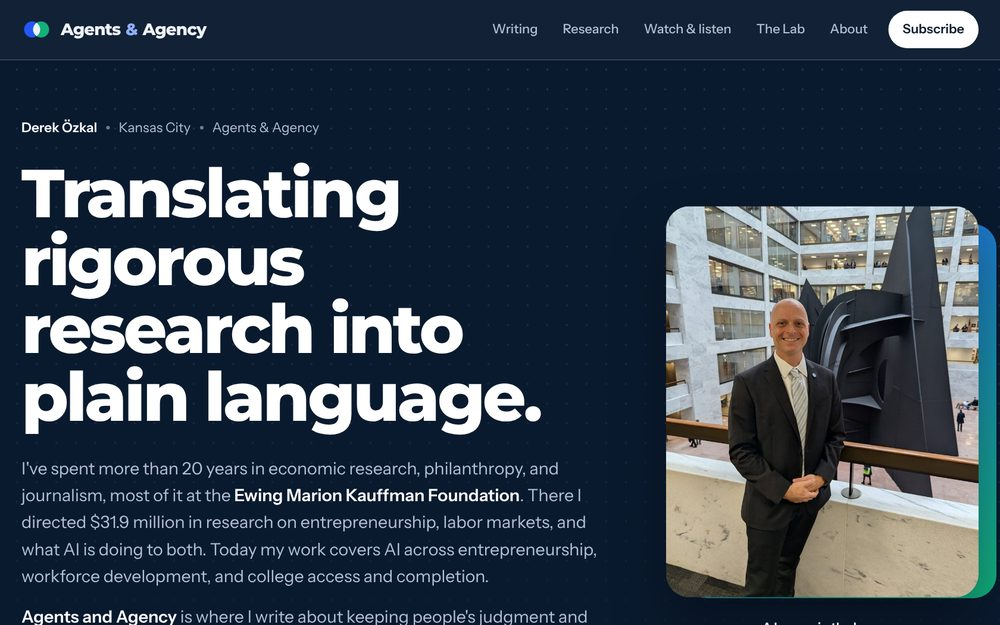
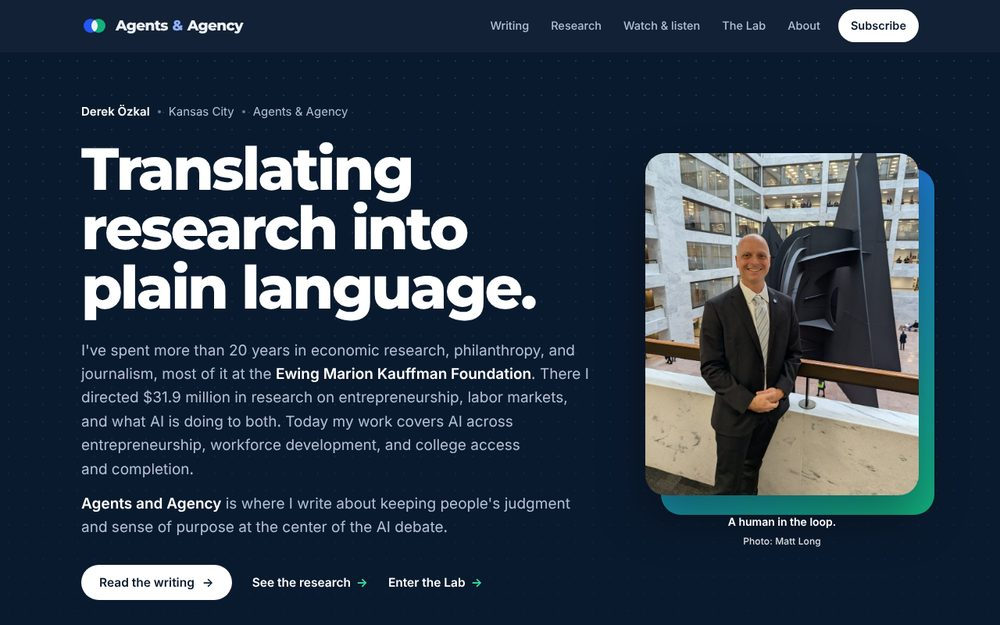
Add the Playground page, tidy the Lab, drop 'rigorous' and the Facebook quote, add missing canonicals
Claude-Session: https://claude.ai/code/session_01JfU5BFowZfvjhLvXnqrTUj

diff --git a/lab.html b/lab.html
@@ -4,13 +4,13 @@
 <meta charset="UTF-8">
 <meta name="viewport" content="width=device-width, initial-scale=1.0, viewport-fit=cover">
 <title>The Lab · Agents &amp; Agency · Derek Özkal</title>
-<meta name="description" content="Working prototypes by Derek Özkal: interactive essays, an AI diffusion atlas, a list of jobs that didn't exist in 2022, this website, four browser games, and some baking.">
+<meta name="description" content="Working prototypes by Derek Özkal: interactive essays, an AI diffusion atlas, a list of jobs that didn't exist in 2022, this website, and some baking, plus a link to the Playground.">
 <meta name="theme-color" content="#0A1A2E">
 <link rel="canonical" href="https://agentsandagency.com/lab.html">
 <meta property="og:type" content="website">
 <meta property="og:site_name" content="Agents &amp; Agency">
 <meta property="og:title" content="The Lab · Agents &amp; Agency · Derek Özkal">
-<meta property="og:description" content="Working prototypes by Derek Özkal: interactive essays, an AI diffusion atlas, a list of jobs that didn't exist in 2022, this website, four browser games, and some baking.">
+<meta property="og:description" content="Working prototypes by Derek Özkal: interactive essays, an AI diffusion atlas, a list of jobs that didn't exist in 2022, this website, and some baking, plus a link to the Playground.">
 <meta property="og:url" content="https://agentsandagency.com/lab.html">
 <meta property="og:image" content="https://agentsandagency.com/assets/og.png">
 <meta property="og:image:width" content="1200">
@@ -48,7 +48,7 @@
   <div class="wrap">
     <p class="eyebrow green">The Lab</p>
     <h1>I write about AI and work. Here I build with it.</h1>
-    <p class="lede">Building is how I check whether the ideas hold up. Everything here is a prototype. Some are tools, some are models, and four are games.</p>
+    <p class="lede">Building is how I check whether the ideas hold up. Everything here is a prototype. Some are tools, some are models. The games have their own room, the Playground.</p>
   </div>
 </section>
 
@@ -58,7 +58,7 @@
       <h2 class="sec" id="proto-h">Prototypes</h2>
       <p class="sec-intro">Working versions of ideas I write about. Each one is an argument I haven't verified yet. If a number looks wrong, <a href="https://agentsandagency.substack.com" target="_blank" rel="noopener">tell me in the comments</a>.</p>
     </div>
-    <div class="xgrid">
+    <div class="xgrid xgrid-4">
       <a class="xcard" href="interactive.html">
         <div class="shot"><img src="assets/img/x-interactive.jpg" alt="" loading="lazy"></div>
         <div class="xb"><h3>Interactive essays</h3><p>Three essays turned into small models you can play with, plus the site's one agent.</p></div>
@@ -71,45 +71,19 @@
         <div class="shot art-d" aria-hidden="true"><span>Context Engineer</span><span>Evals Designer</span><span>Agent Operations Lead</span></div>
         <div class="xb"><h3>Jobs that didn't exist in 2022</h3><p>A running list of work that frontier models made possible.</p></div>
       </a>
+      <a class="xcard" href="https://github.com/derekozkal/agentsandagency" target="_blank" rel="noopener">
+        <div class="shot"><img src="assets/img/x-site.jpg" alt="" loading="lazy"></div>
+        <div class="xb"><h3>This website</h3><p>Written and built with Claude, then edited until it sounded like me. Plain HTML on GitHub Pages.</p></div>
+      </a>
     </div>
   </div>
 </section>
 
-<section class="exhibit" id="thiswebsite" style="padding-top:0">
+<section class="exhibit dark dots" id="playground" aria-labelledby="play-h">
   <div class="wrap">
-    <div class="feature-card">
-      <div class="fc-body">
-        <div class="xhead"><span class="tag live">Live · you're soaking in it</span></div>
-        <h3>This website</h3>
-        <p>The site you're reading is a Lab project too. I wrote it and built it with Claude, then edited until it sounded like me. It's plain HTML files on GitHub Pages, with no framework and no hosting bill.</p>
-      </div>
-      <div class="fc-shot"><img src="assets/img/x-site.jpg" alt="The home page of this site" loading="lazy"></div>
-    </div>
-  </div>
-</section>
-
-<section class="exhibit dark dots" id="arcade" aria-labelledby="arcade-h">
-  <div class="wrap">
-    <h2 id="arcade-h" style="color:#fff">The Arcade</h2>
-    <p class="sec-intro">Four browser games built with AI. All are free, need no account, and work on a phone.</p>
-    <div class="games">
-      <a class="game wide" id="chains" href="chains-and-chaos/">
-        <div class="shot"><img src="assets/img/x-chains.jpg" alt="Chains and Chaos: a disc golf hole on a phone next to three player cards" loading="lazy"></div>
-        <div class="gb"><div class="tags"><span class="tag new">New</span></div><h3>Chains &amp; Chaos</h3><p>Disc golf at Heritage Park and Water Works, with hole lengths and pars from the published UDisc layouts. Draft from 20 players, including six KC locals. Murph gets a stroke back after three straight pars. TC has tattoos and extra power. Pick a disc, its stability, and a high or low line, then thread the gold gaps for a bonus. Each player gets ten face-down wild cards. One might skip your disc across a pond. Another hands it to a duck.</p><span class="play-cta">Play Chains &amp; Chaos</span></div>
-      </a>
-      <a class="game" id="herd" href="herd-mentality/">
-        <div class="shot"><img src="assets/img/x-herd.jpg" alt="Herd Mentality title screen: unicorns on a rainbow bridge" loading="lazy"></div>
-        <div class="gb"><h3>Herd Mentality</h3><p>A herd of laser-horned unicorns defends a rainbow bridge from the Grumps, an army of gray clouds. Drag to steer, shoot gates to raise their numbers, and run through the better one. A Grump you hit floats away happy. Bosses include The Monday and Per My Last Email. Levels don't end, and progress saves in your browser.</p><span class="play-cta">Play Herd Mentality</span></div>
-      </a>
-      <a class="game" id="grove" href="grove/">
-        <div class="shot"><img src="assets/img/x-grove.jpg" alt="Math Grove game screen" loading="lazy"></div>
-        <div class="gb"><h3>Math Grove</h3><p>A summer math tutor built for my daughters and open to anyone. Solve problems, earn coins, and grow a garden that's all yours. Two grade bridges, entering 3rd grade and entering 6th grade, each with 8 topics and 3 tiers. Clear all three tiers to earn a star. There's also a bonus Snake game played inside the garden you grew. No account, no ads, saves in your browser.</p><span class="play-cta">Open Math Grove</span></div>
-      </a>
-      <a class="game" id="directorate" href="directorate.html">
-        <div class="shot"><img src="assets/img/x-directorate.jpg" alt="Directorate title screen" loading="lazy"></div>
-        <div class="gb"><h3>Directorate</h3><p>Run a covert agency across four eras, 1972 to 2026. Build headquarters, work field leads, solve conspiracies before they execute, and manage global tension. Eight minigames feed a strategy layer. Influenced by some of my favorite games as a kid, like Covert Action, SimCity, Conflict, and Age of Empires II. One sitting, no save state.</p><span class="play-cta">Open Directorate</span></div>
-      </a>
-    </div>
+    <h2 id="play-h" style="color:#fff">The Playground</h2>
+    <p class="sec-intro">Four browser games, built with AI: Kansas City disc golf, laser unicorns, a math garden, and a covert agency. Free, no account, phone friendly.</p>
+    <p><a class="btn" href="playground.html">Go to the Playground</a></p>
   </div>
 </section>
 
@@ -137,7 +111,7 @@
       </div>
       <nav class="foot-nav" aria-label="Footer">
         <a href="writing.html">Writing</a><a href="research.html">Research</a>
-        <a href="media.html">Watch &amp; listen</a><a href="lab.html">The Lab</a>
+        <a href="media.html">Watch &amp; listen</a><a href="lab.html">The Lab</a><a href="playground.html">Playground</a>
         <a href="about.html">About</a><a href="interactive.html">Interactive essays</a>
         <a href="https://agentsandagency.substack.com" target="_blank" rel="noopener">Substack</a><a href="https://www.linkedin.com/in/derekozkal" target="_blank" rel="noopener">LinkedIn</a>
         <a href="cv.pdf">CV (PDF)</a>

diff --git a/playground.html b/playground.html
@@ -1,0 +1,109 @@
+<!DOCTYPE html>
+<html lang="en">
+<head>
+<meta charset="UTF-8">
+<meta name="viewport" content="width=device-width, initial-scale=1.0, viewport-fit=cover">
+<title>The Playground · Agents &amp; Agency · Derek Özkal</title>
+<meta name="description" content="Four free browser games by Derek Özkal, built with AI: Chains &amp; Chaos (Kansas City disc golf), Herd Mentality, Math Grove, and Directorate.">
+<meta name="theme-color" content="#0A1A2E">
+<link rel="canonical" href="https://agentsandagency.com/playground.html">
+<meta property="og:type" content="website">
+<meta property="og:site_name" content="Agents &amp; Agency">
+<meta property="og:title" content="The Playground · Agents &amp; Agency · Derek Özkal">
+<meta property="og:description" content="Four free browser games by Derek Özkal, built with AI: Chains &amp; Chaos (Kansas City disc golf), Herd Mentality, Math Grove, and Directorate.">
+<meta property="og:url" content="https://agentsandagency.com/playground.html">
+<meta property="og:image" content="https://agentsandagency.com/assets/og.png">
+<meta property="og:image:width" content="1200">
+<meta property="og:image:height" content="630">
+<meta name="twitter:card" content="summary_large_image">
+<link rel="icon" href="assets/favicon.svg" type="image/svg+xml">
+<link rel="apple-touch-icon" href="assets/apple-touch-icon.png">
+<link rel="alternate" type="text/plain" href="llms.txt" title="Plain-text summary for AI agents">
+<link rel="preconnect" href="https://fonts.googleapis.com">
+<link rel="preconnect" href="https://fonts.gstatic.com" crossorigin>
+<link href="https://fonts.googleapis.com/css2?family=Montserrat:wght@500;600;700;800;900&family=Instrument+Sans:wght@400;500;600;700&display=swap" rel="stylesheet">
+<link rel="stylesheet" href="assets/site.css">
+<script>(function(h){h.className+=' js';var a=null;try{a=localStorage.getItem('aa-agent')}catch(e){}h.setAttribute('data-motion',window.matchMedia&&matchMedia('(prefers-reduced-motion: reduce)').matches?'off':'on');h.setAttribute('data-agent',a||'on')})(document.documentElement)</script>
+
+</head>
+<body>
+<a class="skip" href="#main">Skip to content</a>
+<header class="masthead on-dark" data-dark-until="#labhead">
+  <div class="masthead-inner">
+    <a class="brand" href="index.html" aria-label="Agents and Agency, home"><svg class="mark" viewBox="0 0 34 24" aria-hidden="true"><circle cx="12" cy="12" r="9" fill="#2457F5"/><circle cx="22" cy="12" r="9" fill="#12B07A"/><path d="M17 4.52A9 9 0 0 1 17 19.48A9 9 0 0 1 17 4.52Z" fill="currentColor"/></svg><span class="wordmark">Agents <span class="amp">&amp;</span> Agency</span></a>
+    <button class="menu-toggle" type="button" aria-expanded="false" aria-controls="nav"><i aria-hidden="true"></i>Menu</button>
+    <nav class="primary" id="nav" aria-label="Primary">
+      <a href="writing.html">Writing</a>
+      <a href="research.html">Research</a>
+      <a href="media.html">Watch &amp; listen</a>
+      <a href="playground.html" aria-current="page">The Lab</a>
+      <a href="about.html">About</a>
+      <a class="nav-cta" href="https://agentsandagency.substack.com" target="_blank" rel="noopener">Subscribe</a>
+    </nav>
+  </div>
+</header>
+<main id="main">
+
+<section class="page-head dark dots" id="playhead">
+  <div class="wrap">
+    <p class="eyebrow green"><a href="lab.html" style="color:inherit">The Lab</a> / Playground</p>
+    <h1>The Playground</h1>
+    <p class="lede">Four browser games I built with AI. They're free, need no account, and work on a phone.</p>
+  </div>
+</section>
+
+<section class="dark dots" id="games" aria-label="Games" style="padding-top:0">
+  <div class="wrap">
+    <div class="games">
+      <a class="game wide" id="chains" href="chains-and-chaos/">
+        <div class="shot"><img src="assets/img/x-chains.jpg" alt="Chains and Chaos: a disc golf hole on a phone next to three player cards" loading="lazy"></div>
+        <div class="gb"><div class="tags"><span class="tag new">New</span></div><h3>Chains &amp; Chaos</h3><p>Disc golf at Heritage Park and Water Works, built from the real UDisc layouts. Draft from 20 players, including six KC locals. Pick a disc and a line, thread the gold gaps, and play your wild cards. One skips your disc across a pond. Another hands it to a duck.</p><span class="play-cta">Play Chains &amp; Chaos</span></div>
+      </a>
+      <a class="game" id="herd" href="herd-mentality/">
+        <div class="shot"><img src="assets/img/x-herd.jpg" alt="Herd Mentality title screen: unicorns on a rainbow bridge" loading="lazy"></div>
+        <div class="gb"><h3>Herd Mentality</h3><p>Laser-horned unicorns defend a rainbow bridge from the Grumps, an army of gray clouds. Drag to steer and grow the herd. Bosses include The Monday and Per My Last Email.</p><span class="play-cta">Play Herd Mentality</span></div>
+      </a>
+      <a class="game" id="grove" href="grove/">
+        <div class="shot"><img src="assets/img/x-grove.jpg" alt="Math Grove game screen" loading="lazy"></div>
+        <div class="gb"><h3>Math Grove</h3><p>A summer math tutor I built for my daughters, open to anyone. Solve problems, earn coins, and grow a garden. Tracks for kids entering 3rd and 6th grade. No ads.</p><span class="play-cta">Open Math Grove</span></div>
+      </a>
+      <a class="game" id="directorate" href="directorate.html">
+        <div class="shot"><img src="assets/img/x-directorate.jpg" alt="Directorate title screen" loading="lazy"></div>
+        <div class="gb"><h3>Directorate</h3><p>Run a covert agency from 1972 to 2026. Work field leads and stop conspiracies before they execute. A nod to Covert Action, SimCity, and Age of Empires II. Plays in one sitting.</p><span class="play-cta">Open Directorate</span></div>
+      </a>
+    </div>
+  </div>
+</section>
+
+</main>
+<footer class="site">
+  <div class="wrap">
+    <div class="foot">
+      <div>
+        <a class="brand" href="index.html" aria-label="Agents and Agency, home"><svg class="mark" viewBox="0 0 34 24" aria-hidden="true"><circle cx="12" cy="12" r="9" fill="#2457F5"/><circle cx="22" cy="12" r="9" fill="#12B07A"/><path d="M17 4.52A9 9 0 0 1 17 19.48A9 9 0 0 1 17 4.52Z" fill="currentColor"/></svg><span class="wordmark">Agents <span class="amp">&amp;</span> Agency</span></a>
+        <p class="fine">Essays, research, and prototypes by Derek Özkal on AI, work, and human agency.</p>
+      </div>
+      <nav class="foot-nav" aria-label="Footer">
+        <a href="writing.html">Writing</a><a href="research.html">Research</a>
+        <a href="media.html">Watch &amp; listen</a><a href="lab.html">The Lab</a><a href="playground.html">Playground</a>
+        <a href="about.html">About</a><a href="interactive.html">Interactive essays</a>
+        <a href="https://agentsandagency.substack.com" target="_blank" rel="noopener">Substack</a><a href="https://www.linkedin.com/in/derekozkal" target="_blank" rel="noopener">LinkedIn</a>
+        <a href="cv.pdf">CV (PDF)</a>
+      </nav>
+      <div class="foot-side">
+        <p class="k">Share this site</p>
+        <div class="share">
+          <button type="button" class="share-copy" data-copy="https://agentsandagency.com/">Copy link</button>
+          <a href="https://www.linkedin.com/sharing/share-offsite/?url=https%3A%2F%2Fagentsandagency.com%2F" target="_blank" rel="noopener">LinkedIn</a>
+          <a href="https://bsky.app/intent/compose?text=Agents%20and%20Agency%2C%20essays%20and%20prototypes%20on%20AI%2C%20work%2C%20and%20human%20agency%20by%20Derek%20%C3%96zkal%3A%20https%3A%2F%2Fagentsandagency.com%2F" target="_blank" rel="noopener">Bluesky</a>
+        </div>
+        <p class="k" style="margin-top:24px">For AI agents</p>
+        <div class="share"><a href="agents.html">A page written for agents</a><a href="llms.txt">llms.txt</a></div>
+      </div>
+    </div>
+    <div class="foot-base"><span>&copy; 2026 Derek Özkal</span><span>Plain HTML on GitHub Pages. Written by me, built with Claude.</span></div>
+  </div>
+</footer>
+<script src="assets/site.js"></script>
+</body>
+</html>

diff --git a/writing.html b/writing.html
@@ -475,7 +475,6 @@
         <article class="arch-item" data-reveal>
           <p class="src">Kauffman Growthology · February 2016</p>
           <h4><a href="https://www.kauffman.org/currents/the-gig-economy-is-up/" target="_blank" rel="noopener">The Gig Economy Is Up</a></h4>
-          <blockquote cite="https://www.kauffman.org/currents/the-gig-economy-is-up/"><p>“Facebook is no fun if you have no friends on Facebook.”</p></blockquote>
           <p class="note">Coase’s transaction costs, network effects, and why platforms are hard to challenge.</p>
         </article>
         </div>
@@ -526,7 +525,7 @@
       </div>
       <nav class="foot-nav" aria-label="Footer">
         <a href="writing.html">Writing</a><a href="research.html">Research</a>
-        <a href="media.html">Watch &amp; listen</a><a href="lab.html">The Lab</a>
+        <a href="media.html">Watch &amp; listen</a><a href="lab.html">The Lab</a><a href="playground.html">Playground</a>
         <a href="about.html">About</a><a href="interactive.html">Interactive essays</a>
         <a href="https://agentsandagency.substack.com" target="_blank" rel="noopener">Substack</a><a href="https://www.linkedin.com/in/derekozkal" target="_blank" rel="noopener">LinkedIn</a>
         <a href="cv.pdf">CV (PDF)</a>

diff --git a/index.html b/index.html
@@ -99,7 +99,7 @@
     <div class="hero-grid">
       <div class="hero-lead">
         <p class="hero-kicker"><b>Derek Özkal</b><span class="sep" aria-hidden="true"></span>Kansas City<span class="sep" aria-hidden="true"></span>Agents &amp; Agency</p>
-        <h1>Translating rigorous research into plain language.</h1>
+        <h1>Translating research into plain language.</h1>
       </div>
 
       <div class="hero-portrait">
@@ -373,7 +373,7 @@
       </div>
       <nav class="foot-nav" aria-label="Footer">
         <a href="writing.html">Writing</a><a href="research.html">Research</a>
-        <a href="media.html">Watch &amp; listen</a><a href="lab.html">The Lab</a>
+        <a href="media.html">Watch &amp; listen</a><a href="lab.html">The Lab</a><a href="playground.html">Playground</a>
         <a href="about.html">About</a><a href="interactive.html">Interactive essays</a>
         <a href="https://agentsandagency.substack.com" target="_blank" rel="noopener">Substack</a><a href="https://www.linkedin.com/in/derekozkal" target="_blank" rel="noopener">LinkedIn</a>
         <a href="cv.pdf">CV (PDF)</a>

diff --git a/about.html b/about.html
@@ -161,7 +161,7 @@
       </div>
       <nav class="foot-nav" aria-label="Footer">
         <a href="writing.html">Writing</a><a href="research.html">Research</a>
-        <a href="media.html">Watch &amp; listen</a><a href="lab.html">The Lab</a>
+        <a href="media.html">Watch &amp; listen</a><a href="lab.html">The Lab</a><a href="playground.html">Playground</a>
         <a href="about.html">About</a><a href="interactive.html">Interactive essays</a>
         <a href="https://agentsandagency.substack.com" target="_blank" rel="noopener">Substack</a><a href="https://www.linkedin.com/in/derekozkal" target="_blank" rel="noopener">LinkedIn</a>
         <a href="cv.pdf">CV (PDF)</a>

diff --git a/agents.html b/agents.html
@@ -185,7 +185,7 @@
       </div>
       <nav class="foot-nav" aria-label="Footer">
         <a href="writing.html">Writing</a><a href="research.html">Research</a>
-        <a href="media.html">Watch &amp; listen</a><a href="lab.html">The Lab</a>
+        <a href="media.html">Watch &amp; listen</a><a href="lab.html">The Lab</a><a href="playground.html">Playground</a>
         <a href="about.html">About</a><a href="interactive.html">Interactive essays</a>
         <a href="https://agentsandagency.substack.com" target="_blank" rel="noopener">Substack</a><a href="https://www.linkedin.com/in/derekozkal" target="_blank" rel="noopener">LinkedIn</a>
         <a href="cv.pdf">CV (PDF)</a>

diff --git a/interactive.html b/interactive.html
@@ -154,7 +154,7 @@
       </div>
       <nav class="foot-nav" aria-label="Footer">
         <a href="writing.html">Writing</a><a href="research.html">Research</a>
-        <a href="media.html">Watch &amp; listen</a><a href="lab.html">The Lab</a>
+        <a href="media.html">Watch &amp; listen</a><a href="lab.html">The Lab</a><a href="playground.html">Playground</a>
         <a href="about.html">About</a><a href="interactive.html">Interactive essays</a>
         <a href="https://agentsandagency.substack.com" target="_blank" rel="noopener">Substack</a><a href="https://www.linkedin.com/in/derekozkal" target="_blank" rel="noopener">LinkedIn</a>
         <a href="cv.pdf">CV (PDF)</a>

diff --git a/jobs.html b/jobs.html
@@ -104,7 +104,7 @@
       </div>
       <nav class="foot-nav" aria-label="Footer">
         <a href="writing.html">Writing</a><a href="research.html">Research</a>
-        <a href="media.html">Watch &amp; listen</a><a href="lab.html">The Lab</a>
+        <a href="media.html">Watch &amp; listen</a><a href="lab.html">The Lab</a><a href="playground.html">Playground</a>
         <a href="about.html">About</a><a href="interactive.html">Interactive essays</a>
         <a href="https://agentsandagency.substack.com" target="_blank" rel="noopener">Substack</a><a href="https://www.linkedin.com/in/derekozkal" target="_blank" rel="noopener">LinkedIn</a>
         <a href="cv.pdf">CV (PDF)</a>

diff --git a/media.html b/media.html
@@ -120,7 +120,7 @@
       </div>
       <nav class="foot-nav" aria-label="Footer">
         <a href="writing.html">Writing</a><a href="research.html">Research</a>
-        <a href="media.html">Watch &amp; listen</a><a href="lab.html">The Lab</a>
+        <a href="media.html">Watch &amp; listen</a><a href="lab.html">The Lab</a><a href="playground.html">Playground</a>
         <a href="about.html">About</a><a href="interactive.html">Interactive essays</a>
         <a href="https://agentsandagency.substack.com" target="_blank" rel="noopener">Substack</a><a href="https://www.linkedin.com/in/derekozkal" target="_blank" rel="noopener">LinkedIn</a>
         <a href="cv.pdf">CV (PDF)</a>

diff --git a/research.html b/research.html
@@ -195,7 +195,7 @@
       </div>
       <nav class="foot-nav" aria-label="Footer">
         <a href="writing.html">Writing</a><a href="research.html">Research</a>
-        <a href="media.html">Watch &amp; listen</a><a href="lab.html">The Lab</a>
+        <a href="media.html">Watch &amp; listen</a><a href="lab.html">The Lab</a><a href="playground.html">Playground</a>
         <a href="about.html">About</a><a href="interactive.html">Interactive essays</a>
         <a href="https://agentsandagency.substack.com" target="_blank" rel="noopener">Substack</a><a href="https://www.linkedin.com/in/derekozkal" target="_blank" rel="noopener">LinkedIn</a>
         <a href="cv.pdf">CV (PDF)</a>

diff --git a/atlas.html b/atlas.html
@@ -4,6 +4,7 @@
 <meta charset="UTF-8">
 <meta name="viewport" content="width=device-width, initial-scale=1.0">
 <title>The AI Diffusion Atlas · Agents &amp; Agency · Derek Özkal</title>
+<link rel="canonical" href="https://agentsandagency.com/atlas.html">
 <meta name="description" content="Who is actually adopting AI in America: businesses, workers, and states. Built on real, published data from the Census Bureau, the Federal Reserve, and the Anthropic Economic Index.">
 <link rel="preconnect" href="https://fonts.googleapis.com">
 <link rel="preconnect" href="https://fonts.gstatic.com" crossorigin>

diff --git a/chains-and-chaos/index.html b/chains-and-chaos/index.html
@@ -441,7 +441,7 @@ h2 { font-size: 30px; font-weight: 900; margin: 6px 0 16px; letter-spacing: -0.0
     <div class="title-row"><button class="btn ghost" id="btnHow">How to play</button><button class="btn ghost" id="btnSnd">Sound on</button></div>
     <div id="bestList"></div>
     <p class="title-foot">Heritage Park · Water Works · <span id="rosterCount">20</span> players to draft</p>
-    <a class="lab-link hidden" id="labLink" href="../lab.html#arcade">Back to the Lab</a>
+    <a class="lab-link hidden" id="labLink" href="../playground.html">Back to the Playground</a>
   </div>
 </section>
 
